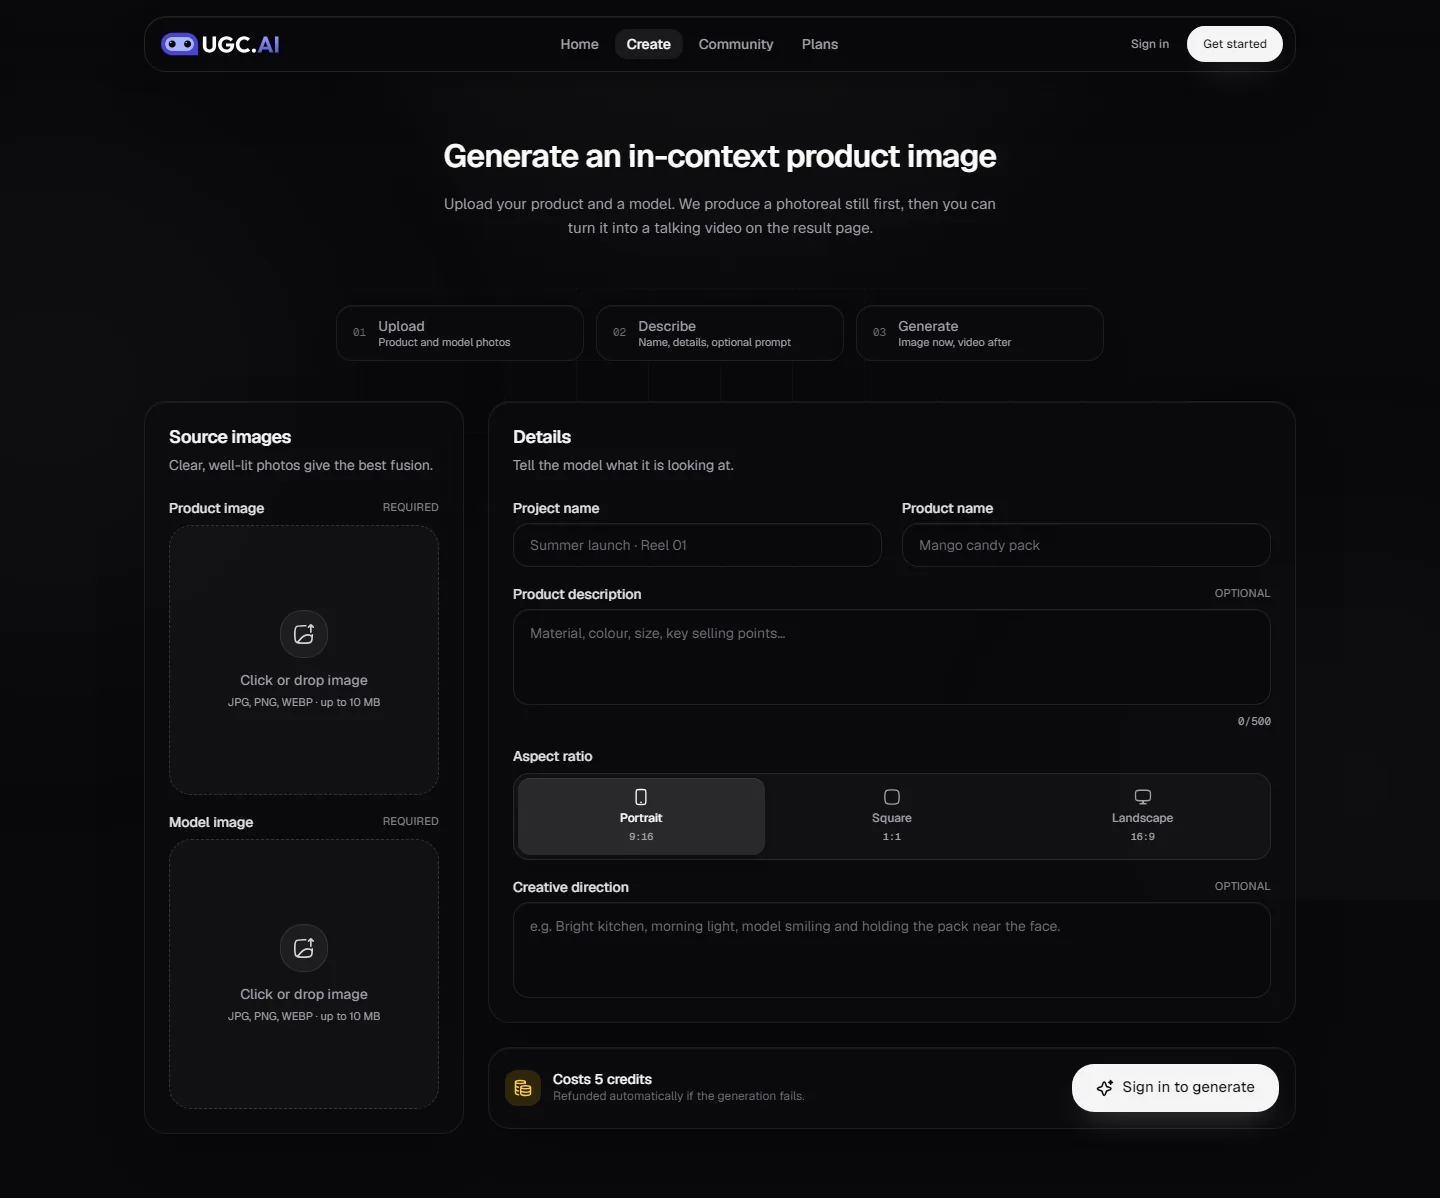
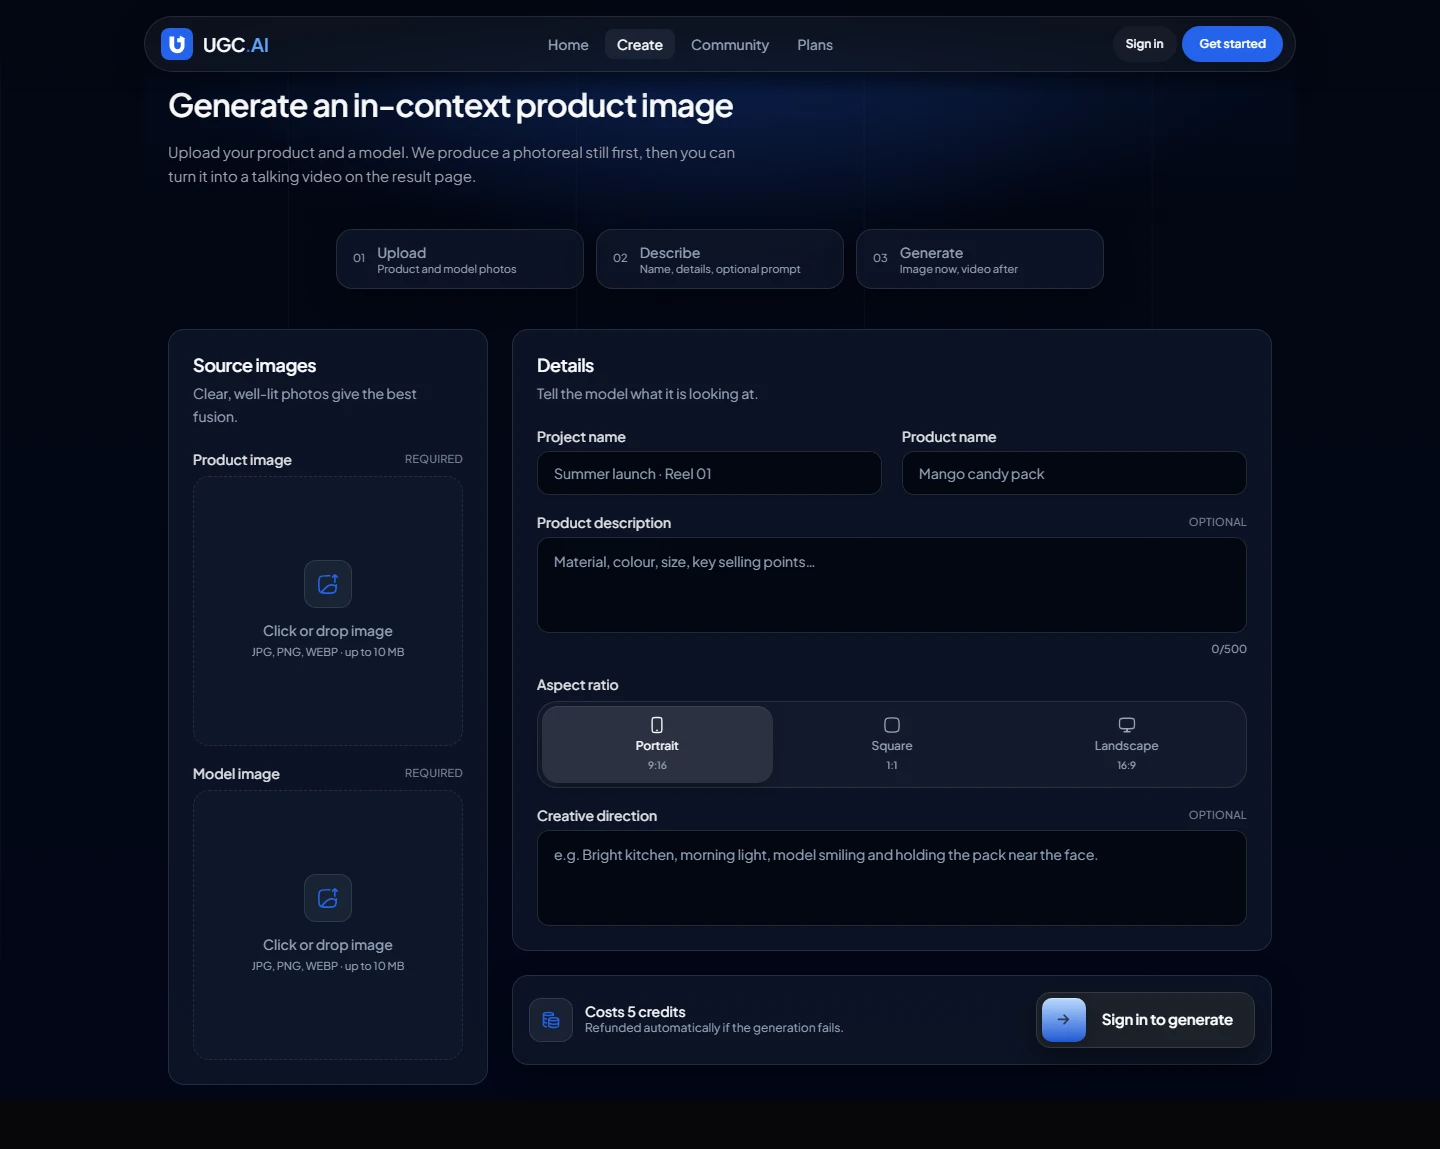
assets(marketing): update Create studio UI showcase screenshot and marketing asset manifest

diff --git a/client/src/assets/assets.tsx b/client/src/assets/assets.tsx
@@ -1,14 +1,6 @@
 import logo from "./logo.svg";
-import type { Project } from "../Types";
-import product1 from "./product1.jpg"; // white watch
-import product2 from "./product2.jpg"; // polaroid camera
-import product3 from "./product3.jpg"; // sunglasses
-import product4 from "./product4.jpg"; // headphone
-import product5 from "./product5.jpg"; // speaker
-import product6 from "./product6.jpg"; // sneakers
 import product7 from "./product7.png"; // trolly bag
 import model1 from "./model1.png"; // model men
-import model2 from "./model2.jpg"; // model women
 
 /** Marketing hero outputs — static files in /public (not in JS bundle). */
 const generated1 = "/generated/generated1.webp";
@@ -26,22 +18,15 @@ export const generatedImageMeta = {
 } as const;
 
 export const marketingAssets = {
-  generatorUi: "/marketing/generator-ui.webp",
+  generatorUi: "/marketing/generator-ui.webp?v=2",
   generatorUiWidth: 1440,
-  generatorUiHeight: 1198,
+  generatorUiHeight: 1149,
 };
 
 export const assets = {
   logo,
-  product1,
-  product2,
-  product3,
-  product4,
-  product5,
-  product6,
   product7,
   model1,
-  model2,
   generated1,
   generated2,
   generated3,
@@ -49,134 +34,3 @@ export const assets = {
   generatedVideo1,
   generatedVideo2,
 };
-
-export const dummyGenerations: Project[] = [
-  {
-    id: "gen_1",
-    aspectRatio: "9:16",
-    productDescription: "Sky Colored Trolly Bag",
-    productName: "Trolly Bag",
-    targetLength: 5,
-    uploadedImages: [product7, model1],
-    userId: "user_1",
-    userPrompt: "Create the video where center of attraction is a trolly bag",
-    generatedImage: generated1,
-    generatedVideo: generatedVideo1,
-    isGenerating: false,
-    isPublished: false,
-    createdAt: "2023-03-15T00:00:00.000Z",
-    updatedAt: "",
-  },
-  {
-    id: "gen_2",
-    aspectRatio: "16:9",
-    productDescription: "Stylish White Sneakers",
-    productName: "Sneakers",
-    targetLength: 10,
-    uploadedImages: [product6, model2],
-    userId: "user_1",
-    userPrompt: "Create an ad showcasing the sneakers",
-    generatedImage: generated2,
-    generatedVideo: generatedVideo2,
-    isGenerating: false,
-    isPublished: true,
-    createdAt: "2023-03-16T00:00:00.000Z",
-    updatedAt: "",
-  },
-  {
-    id: "gen_3",
-    aspectRatio: "9:16",
-    productDescription: "Stylish White Sneakers",
-    productName: "Sneakers",
-    targetLength: 5,
-    uploadedImages: [product6, model1],
-    userId: "user_2",
-    userPrompt: "Showcase sneakers in a dynamic way",
-    generatedImage: generated3,
-    generatedVideo: generatedVideo1,
-    isGenerating: false,
-    isPublished: false,
-    createdAt: "2023-03-17T00:00:00.000Z",
-    updatedAt: "",
-  },
-  {
-    id: "gen_4",
-    aspectRatio: "9:16",
-    productDescription: "Stylish White Sneakers",
-    productName: "Sneakers",
-    targetLength: 5,
-    uploadedImages: [product6, model2],
-    userId: "user_2",
-    userPrompt: "Create an engaging ad for sneakers",
-    generatedImage: generated4,
-    generatedVideo: generatedVideo2,
-    isGenerating: false,
-    isPublished: false,
-    createdAt: "2023-03-18T00:00:00.000Z",
-    updatedAt: "",
-  },
-  {
-    id: "gen_5",
-    aspectRatio: "9:16",
-    productDescription: "Sky Colored Trolly Bag",
-    productName: "Trolly Bag",
-    targetLength: 5,
-    uploadedImages: [product7, model1],
-    userId: "user_3",
-    userPrompt: "Highlight the trolly bag features",
-    generatedImage: generated1,
-    generatedVideo: generatedVideo1,
-    isGenerating: false,
-    isPublished: true,
-    createdAt: "2023-03-19T00:00:00.000Z",
-    updatedAt: "",
-  },
-  {
-    id: "gen_6",
-    aspectRatio: "16:9",
-    productDescription: "Sky Colored Trolly Bag",
-    productName: "Trolly Bag",
-    targetLength: 10,
-    uploadedImages: [product7, model2],
-    userId: "user_3",
-    userPrompt: "Create a wide format ad for the trolly bag",
-    generatedImage: generated2,
-    generatedVideo: generatedVideo2,
-    isGenerating: false,
-    isPublished: false,
-    createdAt: "2023-03-20T00:00:00.000Z",
-    updatedAt: "",
-  },
-  {
-    id: "gen_7",
-    aspectRatio: "9:16",
-    productDescription: "Stylish White Sneakers",
-    productName: "Sneakers",
-    targetLength: 5,
-    uploadedImages: [product6, model1],
-    userId: "user_4",
-    userPrompt: "Focus on sneaker details",
-    generatedImage: generated3,
-    generatedVideo: generatedVideo1,
-    isGenerating: false,
-    isPublished: false,
-    createdAt: "2023-03-21T00:00:00.000Z",
-    updatedAt: "",
-  },
-  {
-    id: "gen_8",
-    aspectRatio: "9:16",
-    productDescription: "Stylish White Sneakers",
-    productName: "Sneakers",
-    targetLength: 5,
-    uploadedImages: [product6, model2],
-    userId: "user_4",
-    userPrompt: "Create a trendy sneaker ad",
-    generatedImage: generated4,
-    generatedVideo: generatedVideo2,
-    isGenerating: false,
-    isPublished: true,
-    createdAt: "2023-03-22T00:00:00.000Z",
-    updatedAt: "",
-  },
-];

diff --git a/client/src/components/marketing/HomeCreateScreenshot.tsx b/client/src/components/marketing/HomeCreateScreenshot.tsx
@@ -1,37 +1,48 @@
-import { Link } from "react-router-dom";
-import { marketingAssets } from "@/assets/assets";
-import MarketingShowcaseFrame from "@/components/marketing/MarketingShowcaseFrame";
-import { cn } from "@/lib/utils";
-
-type HomeCreateScreenshotProps = {
-  className?: string;
-};
-
-export default function HomeCreateScreenshot({ className }: HomeCreateScreenshotProps) {
-  return (
-    <MarketingShowcaseFrame
-      className={className}
-      title="Generate an in-context product image"
-      description="Steps, dual uploads, details, and aspect ratio — identical to the signed-in Create page."
-      footer={
-        <p className="text-[11px] text-muted-foreground sm:text-xs">
-          <Link to="/generate" className="font-medium text-brand hover:underline">
-            Open Create
-          </Link>{" "}
-          to run your own uploads.
-        </p>
-      }
-    >
-      <img
-        src={marketingAssets.generatorUi}
-        alt="Create screen with product and model upload zones, project fields, aspect ratio controls, and generate button"
-        width={marketingAssets.generatorUiWidth}
-        height={marketingAssets.generatorUiHeight}
-        className={cn("mx-auto block w-full max-w-full rounded-[var(--radius-lg)] border border-white/10 shadow-md")}
-        loading="lazy"
-        decoding="async"
-      />
-    </MarketingShowcaseFrame>
-  );
-}
-
+import { useState } from "react";
+import { Link } from "react-router-dom";
+import { marketingAssets } from "@/assets/assets";
+import MarketingShowcaseFrame from "@/components/marketing/MarketingShowcaseFrame";
+import { Skeleton } from "@/components/ui/skeleton";
+import { cn } from "@/lib/utils";
+
+type HomeCreateScreenshotProps = {
+  className?: string;
+};
+
+export default function HomeCreateScreenshot({ className }: HomeCreateScreenshotProps) {
+  const [loaded, setLoaded] = useState(false);
+
+  return (
+    <MarketingShowcaseFrame
+      className={className}
+      title="Generate an in-context product image"
+      description="Steps, dual uploads, details, and aspect ratio — identical to the signed-in Create page."
+      footer={
+        <p className="text-[11px] text-muted-foreground sm:text-xs">
+          <Link to="/generate" className="font-medium text-brand hover:underline">
+            Open Create
+          </Link>{" "}
+          to run your own uploads.
+        </p>
+      }
+    >
+      <div className="relative mx-auto w-full max-w-full overflow-hidden rounded-[var(--radius-lg)] border border-white/10 shadow-md">
+        {!loaded && <Skeleton className="absolute inset-0 z-0 rounded-none" />}
+        <img
+          src={marketingAssets.generatorUi}
+          alt="Create screen with product and model upload zones, project fields, aspect ratio controls, and generate button"
+          width={marketingAssets.generatorUiWidth}
+          height={marketingAssets.generatorUiHeight}
+          onLoad={() => setLoaded(true)}
+          className={cn(
+            "relative z-[1] mx-auto block w-full max-w-full transition-opacity duration-300",
+            loaded ? "opacity-100" : "opacity-0",
+          )}
+          loading="lazy"
+          decoding="async"
+        />
+      </div>
+    </MarketingShowcaseFrame>
+  );
+}
+
